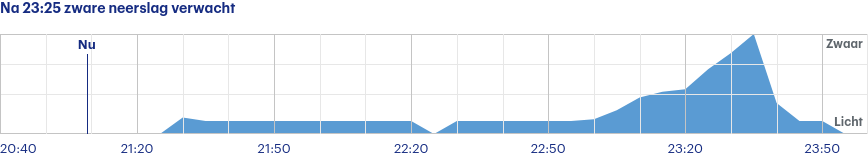
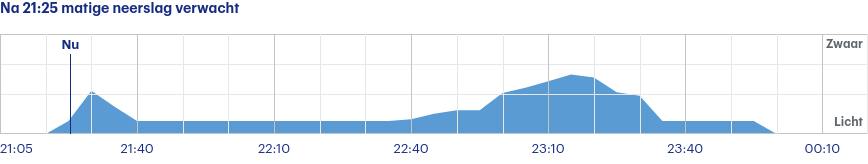
Latest scraping buienradar: Wed Aug 30 19:21:16 UTC 2023

diff --git a/scrapes/buienradar/buienradar-jette-3-uur.md b/scrapes/buienradar/buienradar-jette-3-uur.md
@@ -1,4 +1,4 @@
-Na 23:25 zware neerslag verwacht
+Na 21:25 matige neerslag verwacht
 
 ![](buienradar-jette-3-uur.png)
 
